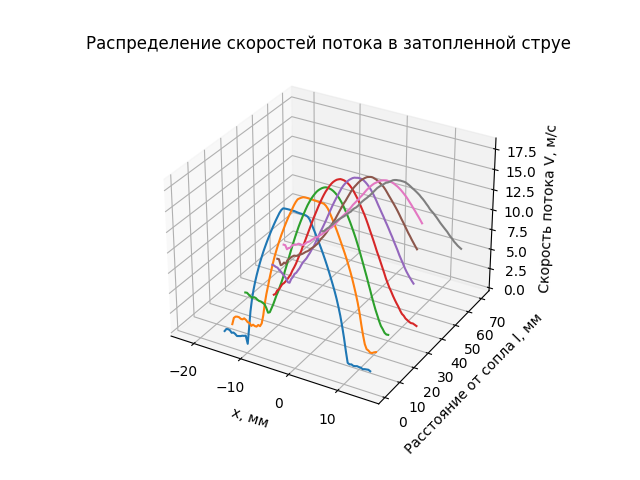
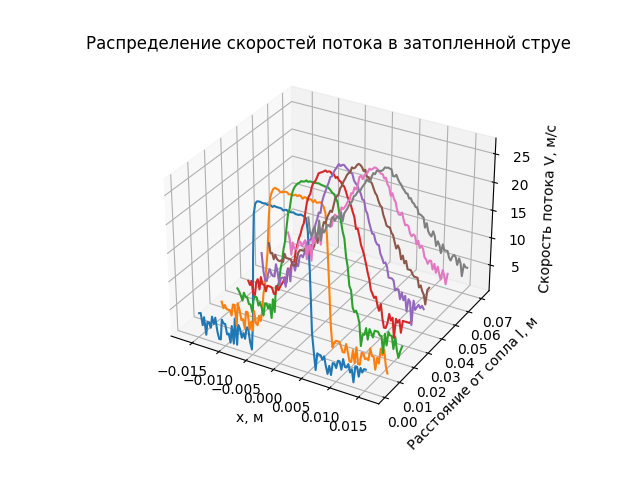
normal axes and not smoothed plots

Changed region(s): [[0.25, 0.1875, 0.8438, 0.8125], [0.25, 0.6562, 0.8438, 0.9375]]

diff --git a/10-jet/10-4-jet-dataProcessing.py b/10-jet/10-4-jet-dataProcessing.py
@@ -9,7 +9,7 @@ from mpl_toolkits.mplot3d import Axes3D
 
 
 # Enter variables and directory of files
-L = 30 # в мм
+L = 0.03 # в м
 low = 0 #давление в паскалях в атм-е
 high = 51 #давление в паскалях в потоке
 
@@ -22,7 +22,7 @@ files = os.listdir(dir + 'DATA/')
 
 for j in range(len(files)):
     for i in range (len(files)-1):
-        if os.stat(dir + 'DATA/'+ files[i+1]).st_mtime < os.stat(dir+ 'DATA/' + files[i]).st_mtime:
+        if os.stat(dir + 'DATA/'+ files[i+1]).st_mtime < os.stat(dir + 'DATA/' + files[i]).st_mtime:
             a = files[i+1]
             files[i+1] = files[i]
             files[i] = a  
@@ -52,27 +52,30 @@ dataSP = []
 N1 = 20
 
 for i in range (len(data)):
-    dataSP.append(abs(np.convolve(data[i], np.ones((N1,))/N1, mode = 'valid') - 55))
+    dataSP.append((np.convolve(data[i], np.ones((N1,))/N1, mode = 'valid') - 78))
 
+data = data - 240/k
 
 # Centering and creating lengthlines 
 lengths = []
 num = len(data[0])-N1+1 # num of elements in smoothed plots
+num = 100
 
-for i in range (len(dataSP)):
-    lengths.append(np.linspace(-L/2, L/2, num) - list(dataSP[i]).index(np.max(dataSP[i]))*L/(num)+15)
+for i in range (len(data)):
+    lengths.append( np.linspace(-L/2, L/2, num) - list(dataSP[i]).index(np.max(dataSP[i]))*L/(num) + 0.0125 )
 
-lengths[0] = (np.linspace(-L/2, L/2, num) - list(dataSP[0]).index(np.max(dataSP[0]))*L/(num)+14)
-lengths[1] = (np.linspace(-L/2, L/2, num) - list(dataSP[1]).index(np.max(dataSP[1]))*L/(num)+14)
-lengths[3] = (np.linspace(-L/2, L/2, num) - list(dataSP[3]).index(np.max(dataSP[3]))*L/(num)+14.5)
+lengths[0] = (np.linspace(-L/2, L/2, num) - list(dataSP[0]).index(np.max(dataSP[0]))*L/(num) + 0.011)
+lengths[1] = (np.linspace(-L/2, L/2, num) - list(dataSP[1]).index(np.max(dataSP[1]))*L/(num) + 0.011)
+
+
 
 # Calculate jet flow
 Q = [0]*8
 
-for j in range (len(dataSP)):
-
-    for i in range(len(dataSP[j])):
-        Q[j] += abs ( (0.001*20/len(dataSP[j]) * ((0.001*20/len(dataSP[j])*i) * ((abs(k*dataSP[j][i]-low)*2/1.27))**(1/2) )))
+for j in range (len(data)):  # 8
+    for i in range(len(data[j])): # 100
+        
+        Q[j] += abs( (L/len(data[j])) * (abs(lengths[j][i])) * (abs((k*data[j][i]-low)*2/1.27))**(1/2) )
 
 Q = [i*1.27*np.pi for i in Q]
 
@@ -81,11 +84,11 @@ Q = [i*1.27*np.pi for i in Q]
 fig = plt.figure()
 ax = fig.add_subplot(111)
 ax.grid(color = 'gray', linestyle = ':')
-ax.set(title = 'Центрированный график зависимости P(x)', xlabel = 'x, мм', ylabel = 'Давление P, Па')
+ax.set(title = 'Центрированный график зависимости P(x)', xlabel = 'x, м', ylabel = 'Давление P, Па')
 
 for i in range(len(dataSP)):
-    print(len(lengths[i]), ' ', len(dataSP[i]))
-    ax.plot(lengths[i], k*dataSP[i], label = '{}mm'.format(10*i+1))
+
+    ax.plot(lengths[i], k*data[i], label = '{}mm'.format(10*i+1))
 
 ax.legend()
 
@@ -93,19 +96,19 @@ ax.legend()
 # Create 3D plot
 fig3D = plt.figure()
 ax3D = fig3D.add_subplot(111, projection='3d')
-ax3D.set(title = 'Распределение скоростей потока в затопленной струе', xlabel = 'x, мм', ylabel = 'Расстояние от сопла l, мм', zlabel = 'Скорость потока V, м/с')
+ax3D.set(title = 'Распределение скоростей потока в затопленной струе', xlabel = 'x, м', ylabel = 'Расстояние от сопла l, м', zlabel = 'Скорость потока V, м/с')
 
-for i in range(len(dataSP)):
-    ax3D.plot(lengths[i], [10*i+1]*(num), ((k*dataSP[i]-low)*2/1.27)**(1/2))
+for i in range(len(data)):
+    ax3D.plot(lengths[i], [(10*i+1)*0.001]*(num), abs(((k*data[i]-low)*2/1.27))**(1/2))
 
 
 # Create plot of jet flow
 figJet = plt.figure()
 axJet = figJet.add_subplot(111)
-axJet.set(title = 'График зависимости Q(l)', xlabel = 'Расстояние от сопла l, мм', ylabel = 'Расход Q, кг/с')
+axJet.set(title = 'График зависимости Q(l)', xlabel = 'Расстояние от сопла l, м', ylabel = 'Расход Q, кг/с')
 axJet.grid(color = 'gray', linestyle = ':')
 
-axJet.plot(np.linspace(1, 71, 8), Q)
+axJet.plot(np.linspace(0.001, 0.071, 8), Q)
 
 plt.show()
 

diff --git a/9-blood/9-2-data-processing.py b/9-blood/9-2-data-processing.py
@@ -3,9 +3,10 @@ import numpy as np
 import matplotlib.pyplot as plt
 import matplotlib.ticker as ticker
 import pathlib
-import plotPressure as pp
+import bloodFunctions as func
 
 # Enter high and low value of calibration pressure
+dir = 'C:/Users/ksyurko/Desktop/Repositories/get/9-blood/DATA/'
 
 high = 160
 low = 40
@@ -29,12 +30,16 @@ LFN_MF = '08.07.2021-13.29.18_0.009.txt'
 
 # Load data from files
 
-HC = np.loadtxt('/home/pi/Repositories/get/9-blood/DATA/' + LFN_HC)
-LC = np.loadtxt('/home/pi/Repositories/get/9-blood/DATA/' + LFN_LC)
-MR = np.loadtxt('/home/pi/Repositories/get/9-blood/DATA/' + LFN_MR)
-MF = np.loadtxt('/home/pi/Repositories/get/9-blood/DATA/' + LFN_MF)
+HC = np.loadtxt(dir + LFN_HC)
+LC = np.loadtxt(dir + LFN_LC)
+MR = np.loadtxt(dir + LFN_MR)
+MF = np.loadtxt(dir + LFN_MF)
 
 # Assigning deltas to variac
+delta_HC = float(pathlib.Path(LFN_HC).stem[20:])
+delta_LC = float(pathlib.Path(LFN_LC).stem[20:])
+delta_MR = float(pathlib.Path(LFN_MR).stem[20:])
+delta_MF = float(pathlib.Path(LFN_MF).stem[20:])
 
 # Smoothing plots
 
@@ -85,11 +90,12 @@ puls2 = round(60 / (tDP2 - tSP2) * num2)
 
 # Create plots
 
-pp.plotPressure(MR_Smothed, timelineMR, SP1, tSP1, DP1, tDP1, k)
-pp.plotPressure(MF_Smothed, timelineMF, SP2, tSP2, DP2, tDP2, k)
+func.plotPressure(MR_Smothed, timelineMR, SP1, tSP1, DP1, tDP1, k)
+func.plotPressure(MF_Smothed, timelineMF, SP2, tSP2, DP2, tDP2, k)
 
-pp.plotCalibration(HC_Smothed, timelineHC, high, k)
-pp.plotCalibration(LC_Smothed, timelineLC, low, k)
+func.plotCalibration(HC_Smothed, timelineHC, high, k)
+func.plotCalibration(LC_Smothed, timelineLC, low, k)
 
-pp.plotPuls(pulsWave1, timelinePuls1, puls1, k)
-pp.plotPuls(pulsWave2, timelinePuls2, puls2, k)
+func.plotPuls(pulsWave1, timelinePuls1, puls1, k)
+func.plotPuls(pulsWave2, timelinePuls2, puls2, k)
+plt.show()

diff --git a/9-blood/bloodFunctions.py b/9-blood/bloodFunctions.py
@@ -4,6 +4,8 @@ import matplotlib.pyplot as plt
 import matplotlib.ticker as ticker
 import pathlib
 
+dir = 'C:/Users/ksyurko/Desktop/Repositories/get/9-blood/DATA/'
+
 def plotPressure(measure, timeline, pSP, tSP, pDP, tDP, k):
 
     fig = plt.figure()
@@ -23,7 +25,7 @@ def plotPressure(measure, timeline, pSP, tSP, pDP, tDP, k):
     ax.text(tDP + 0.5, pDP, 'DP = {}'.format(pDP))
     ax.legend()
     
-    fig.savefig('/home/pi/Repositories/9-Plots/Smoothed_plot_measure_{}.png'.format(pSP))
+    fig.savefig(dir + 'Smoothed_plot_measure_{}.png'.format(pSP))
 
 def plotCalibration(measure, timeline, level, k):
 
@@ -38,7 +40,7 @@ def plotCalibration(measure, timeline, level, k):
 
     ax.plot(timeline, k*measure, label ='')
     
-    fig.savefig('/home/pi/Repositories/9-Plots/Smoothed_plot_calibration_{}.png'.format(level))
+    fig.savefig(dir + 'Smoothed_plot_calibration_{}.png'.format(level))
 
 def plotPuls(measure, timeline, puls, k):
 
@@ -56,4 +58,4 @@ def plotPuls(measure, timeline, puls, k):
     ax.plot(timeline, measure, label = 'Пульс {}'.format(puls))
     ax.legend()
 
-    fig.savefig('/home/pi/Repositories/9-Plots/Puls_wave_{}'.format(puls))
+    fig.savefig(dir + 'Puls_wave_{}'.format(puls))

diff --git a/10-jet/jetFunctions.py b/10-jet/jetFunctions.py
@@ -1,4 +1,4 @@
-import RPi.GPIO as GPIO
+# import RPi.GPIO as GPIO
 import time
 import datetime
 import numpy as np
